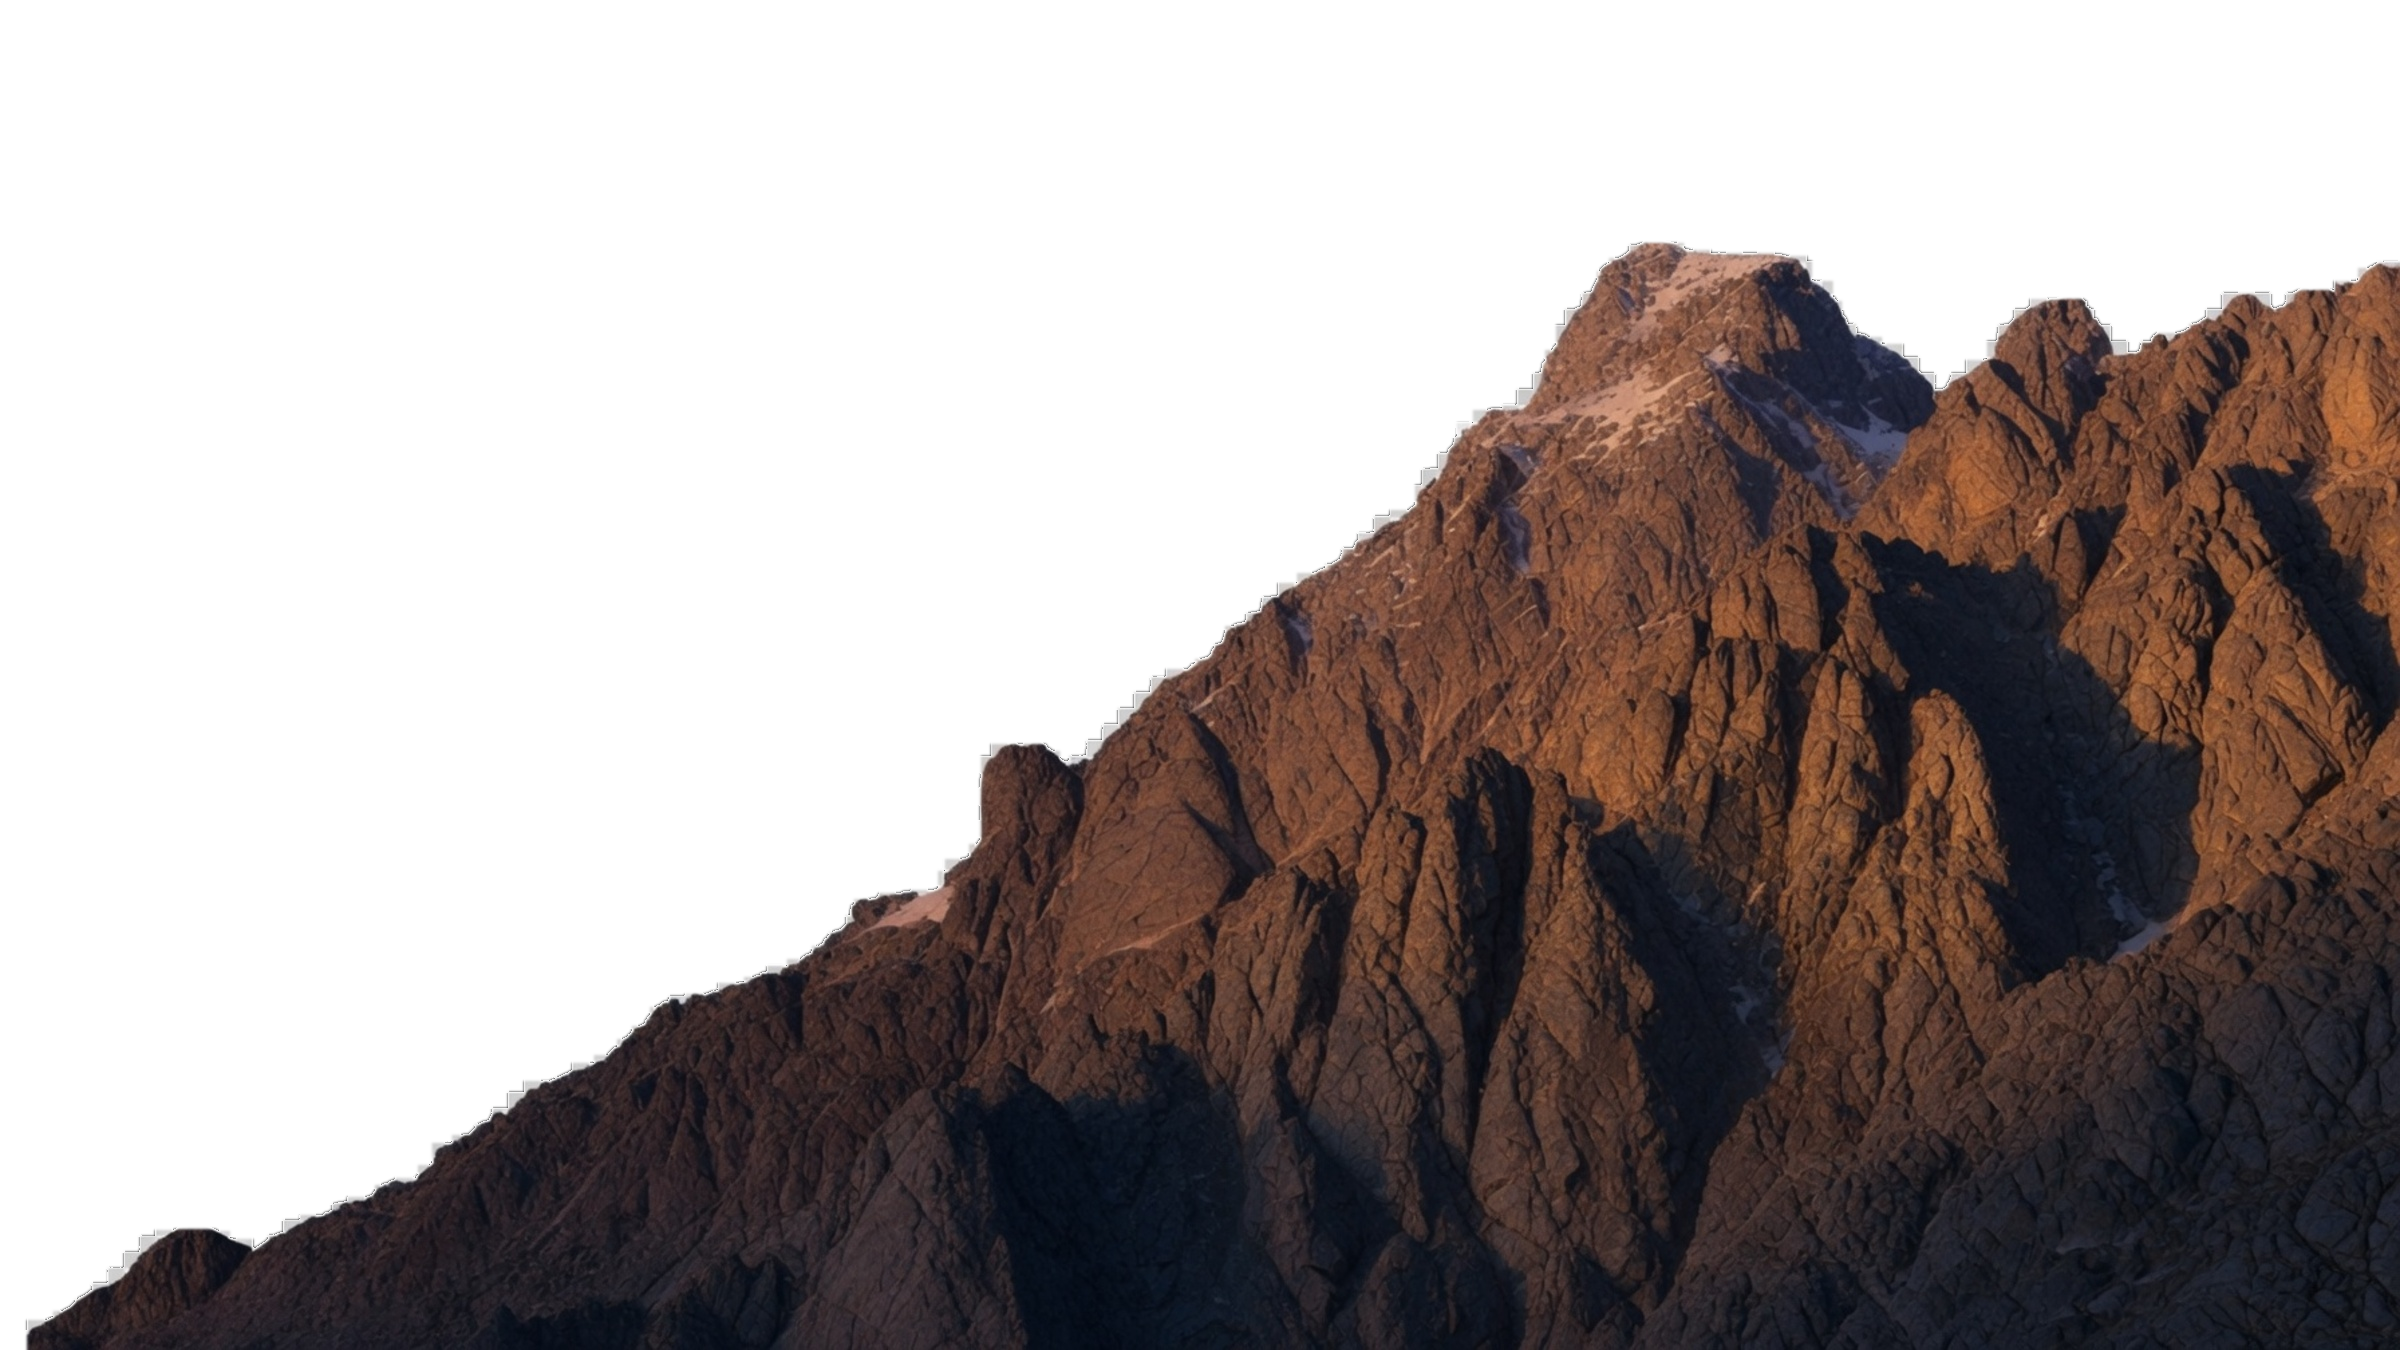
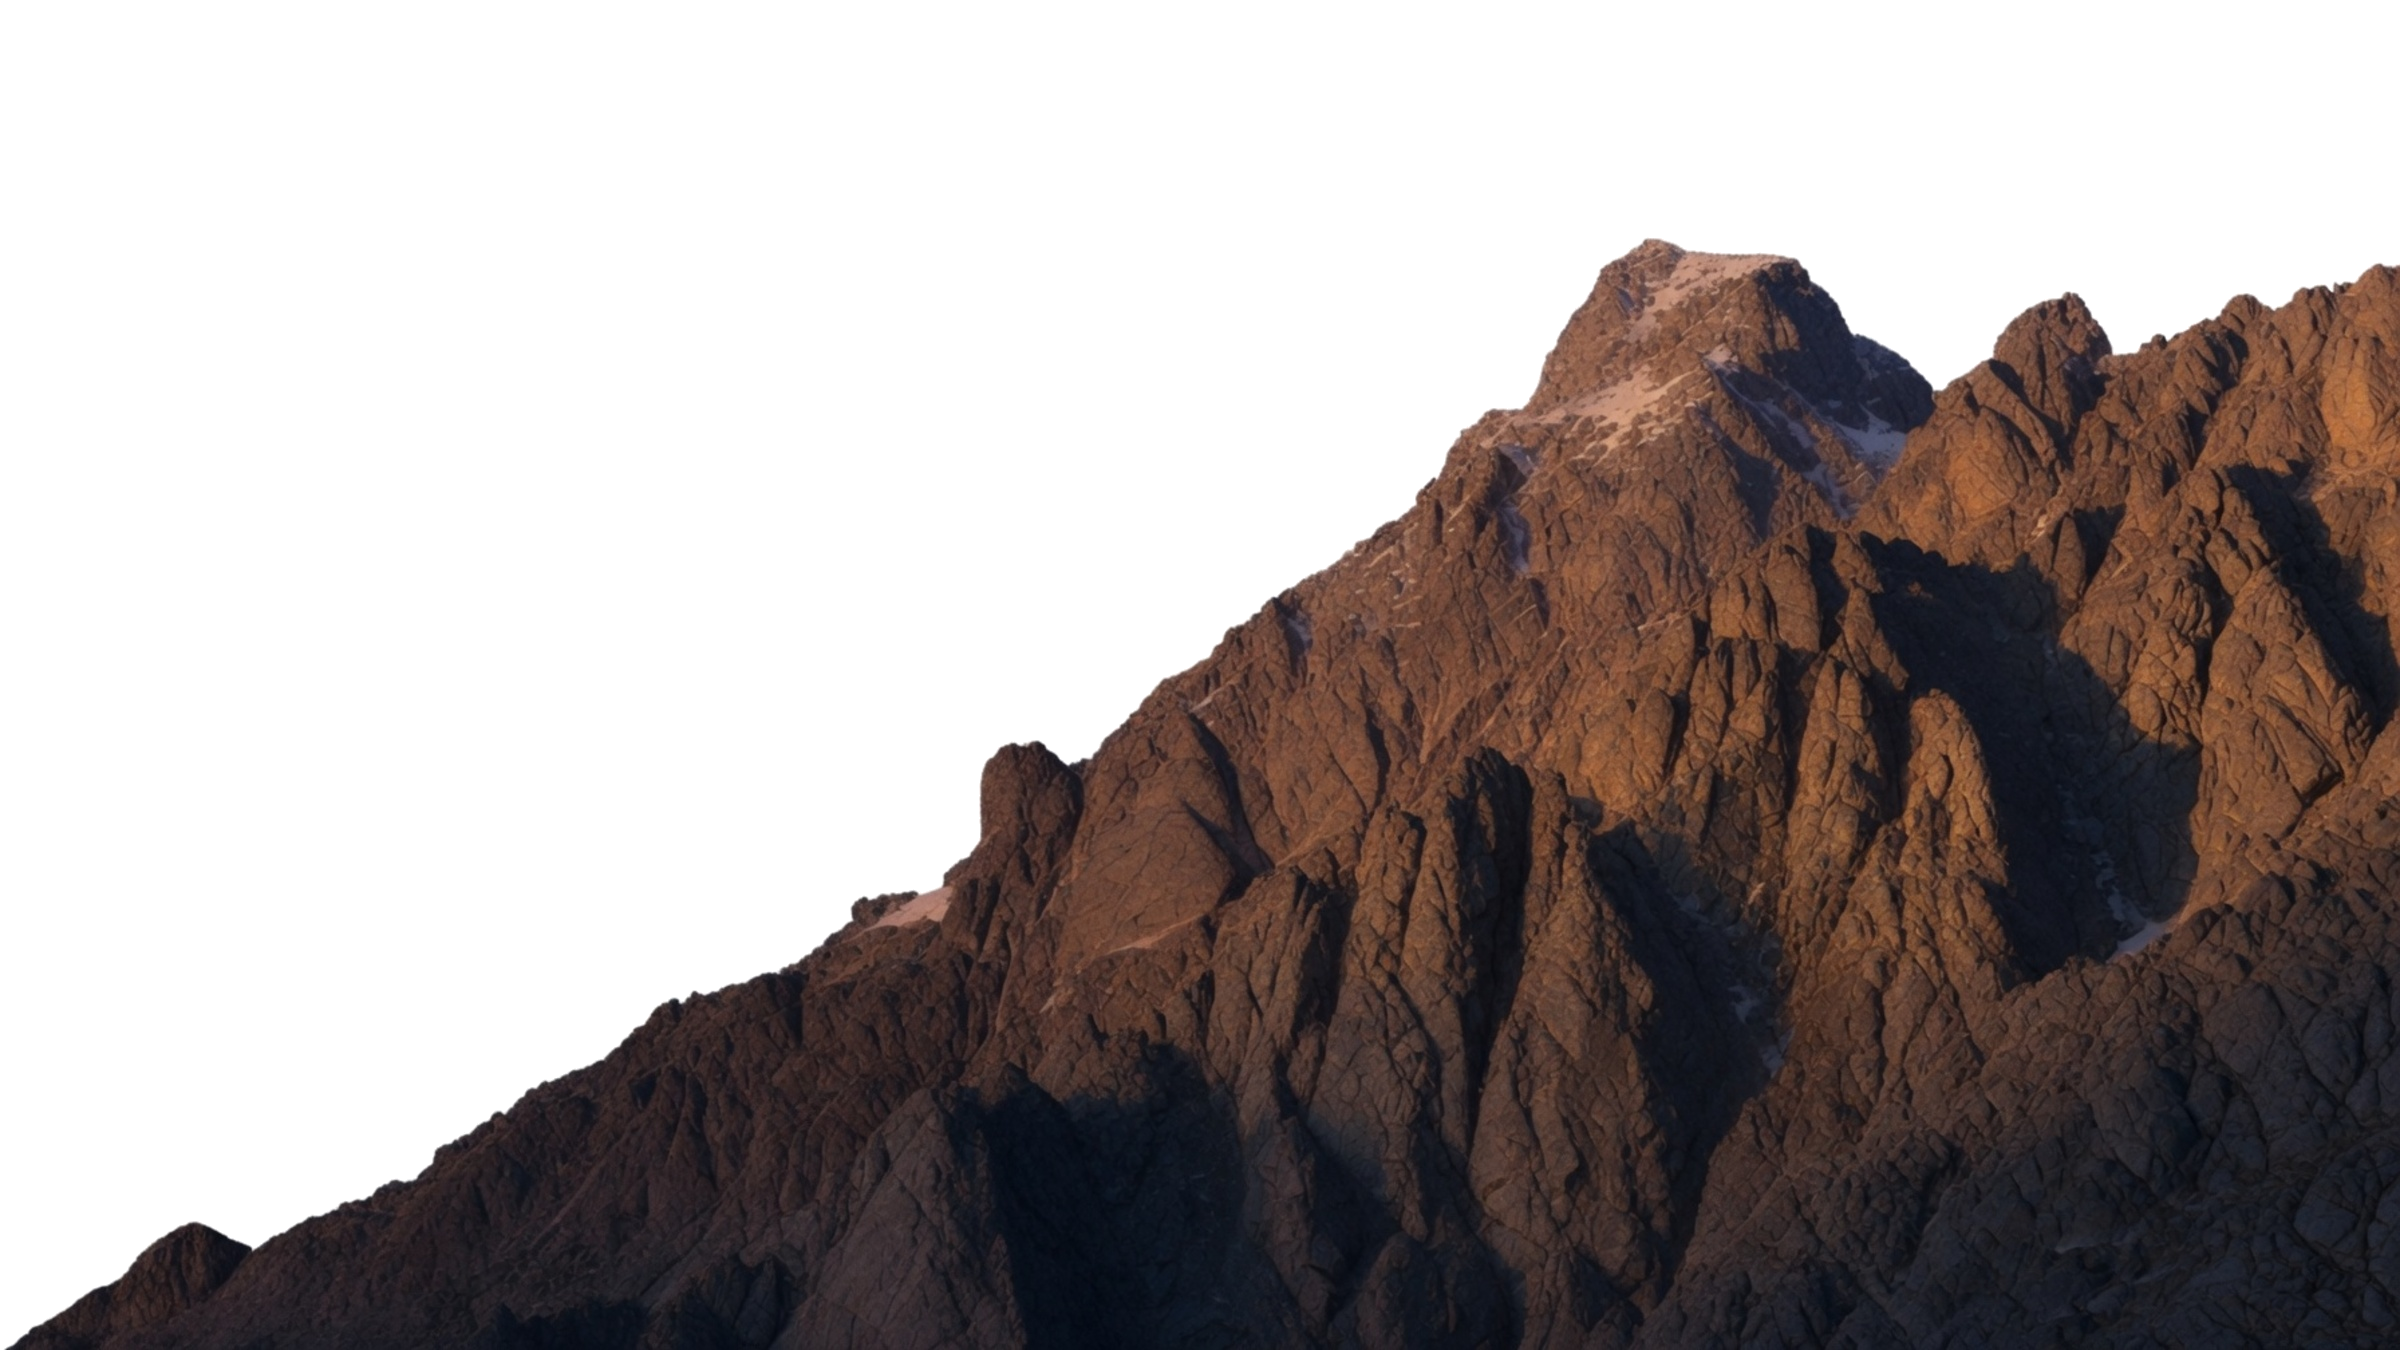
Add files via upload

diff --git a/about.html b/about.html
@@ -26,9 +26,11 @@
   .l-mtn-bg{bottom:0;}
   .l-mtn-fg{bottom:0;}
   .l-ground{bottom:0;}
-  img.l-fog{position:absolute;display:block;width:130%;height:auto;left:-15%;bottom:-4%;}
-  .l-fog-far{opacity:0.85;animation:fog-drift-far 80s ease-in-out infinite alternate, fog-pulse-far 44s ease-in-out infinite;}
-  .l-fog-near{opacity:0.92;animation:fog-drift-near 52s ease-in-out infinite alternate, fog-pulse-near 33s ease-in-out infinite;animation-delay:0s,7s;}
+  /* Fog: an inner element runs drift+pulse; the outer wrapper is moved by scroll parallax. */
+  .fog-wrap{position:absolute;left:0;width:100%;bottom:0;will-change:transform;}
+  .fog-wrap img{display:block;width:130%;height:auto;margin-left:-15%;}
+  .l-fog-far img{opacity:0.85;animation:fog-drift-far 80s ease-in-out infinite alternate, fog-pulse-far 44s ease-in-out infinite;}
+  .l-fog-near img{opacity:0.92;animation:fog-drift-near 52s ease-in-out infinite alternate, fog-pulse-near 33s ease-in-out infinite;animation-delay:0s,7s;}
   @keyframes fog-drift-far{from{transform:translateX(-4%);}to{transform:translateX(4%);}}
   @keyframes fog-drift-near{from{transform:translateX(5%);}to{transform:translateX(-5%);}}
   @keyframes fog-pulse-far{0%,55%{opacity:0.85;}68%{opacity:0.3;}80%,100%{opacity:0.85;}}
@@ -154,18 +156,18 @@
     .navlinks{gap:18px;font-size:11px;}
   }
   @media (prefers-reduced-motion: reduce){
-    .ticker-track,.l-fog-far,.l-fog-near{animation:none;}
+    .ticker-track,.l-fog-far img,.l-fog-near img{animation:none;}
     .reveal{opacity:1;transform:none;transition:none;}
-    img.layer{transform:none !important;}
+    img.layer,.fog-wrap{transform:none !important;}
   }
 </style>
 </head>
 <body>
   <div class="stage" aria-hidden="true">
     <img class="layer l-mtn-bg" data-from="10" data-to="-14" src="assets/mountains-bg.png" alt="">
-    <img class="layer l-fog l-fog-far" src="assets/fog-far.png" alt="">
-    <img class="layer l-mtn-fg" data-from="30" data-to="-6" src="assets/mountains-fg.png" alt="">
-    <img class="layer l-fog l-fog-near" src="assets/fog-near.png" alt="">
+    <div class="fog-wrap l-fog-far" data-from="115" data-to="-20" data-delay="0.5"><img src="assets/fog-far.png" alt=""></div>
+    <img class="layer l-mtn-fg" data-from="60" data-to="15" src="assets/mountains-fg.png" alt="">
+    <div class="fog-wrap l-fog-near" data-from="130" data-to="-40" data-delay="0.55"><img src="assets/fog-near.png" alt=""></div>
     <img class="layer l-ground" data-from="108" data-to="0" src="assets/ground-rock.png" alt="">
   </div>
   <div class="content">
@@ -274,8 +276,13 @@
   // across the full page scroll. Nearest layers travel furthest; ground docks at page end.
   (function(){
     if (window.matchMedia('(prefers-reduced-motion: reduce)').matches) return;
-    var layers = Array.prototype.slice.call(document.querySelectorAll('.stage img.layer[data-from]')).map(function(el){
-      return { el: el, from: parseFloat(el.getAttribute('data-from')), to: parseFloat(el.getAttribute('data-to')) };
+    var layers = Array.prototype.slice.call(document.querySelectorAll('.stage [data-from]')).map(function(el){
+      return {
+        el: el,
+        from: parseFloat(el.getAttribute('data-from')),
+        to: parseFloat(el.getAttribute('data-to')),
+        delay: parseFloat(el.getAttribute('data-delay') || '0')  // 0..1: hold until this scroll fraction
+      };
     });
     var ticking = false;
     function update(){
@@ -284,7 +291,12 @@
       var max = Math.max(1, doc.scrollHeight - window.innerHeight);
       var p = Math.min(1, Math.max(0, window.scrollY / max));
       layers.forEach(function(l){
-        var y = l.from + (l.to - l.from) * p;
+        var lp = p;
+        if (l.delay > 0) {
+          // hold at `from` until scroll passes `delay`, then remap remaining range to 0..1
+          lp = p <= l.delay ? 0 : (p - l.delay) / (1 - l.delay);
+        }
+        var y = l.from + (l.to - l.from) * lp;
         l.el.style.transform = 'translate3d(0,' + y.toFixed(2) + '%,0)';
       });
     }

diff --git a/index.html b/index.html
@@ -26,9 +26,11 @@
   .l-mtn-bg{bottom:0;}
   .l-mtn-fg{bottom:0;}
   .l-ground{bottom:0;}
-  img.l-fog{position:absolute;display:block;width:130%;height:auto;left:-15%;bottom:-4%;}
-  .l-fog-far{opacity:0.85;animation:fog-drift-far 80s ease-in-out infinite alternate, fog-pulse-far 44s ease-in-out infinite;}
-  .l-fog-near{opacity:0.92;animation:fog-drift-near 52s ease-in-out infinite alternate, fog-pulse-near 33s ease-in-out infinite;animation-delay:0s,7s;}
+  /* Fog: an inner element runs drift+pulse; the outer wrapper is moved by scroll parallax. */
+  .fog-wrap{position:absolute;left:0;width:100%;bottom:0;will-change:transform;}
+  .fog-wrap img{display:block;width:130%;height:auto;margin-left:-15%;}
+  .l-fog-far img{opacity:0.85;animation:fog-drift-far 80s ease-in-out infinite alternate, fog-pulse-far 44s ease-in-out infinite;}
+  .l-fog-near img{opacity:0.92;animation:fog-drift-near 52s ease-in-out infinite alternate, fog-pulse-near 33s ease-in-out infinite;animation-delay:0s,7s;}
   @keyframes fog-drift-far{from{transform:translateX(-4%);}to{transform:translateX(4%);}}
   @keyframes fog-drift-near{from{transform:translateX(5%);}to{transform:translateX(-5%);}}
   @keyframes fog-pulse-far{0%,55%{opacity:0.85;}68%{opacity:0.3;}80%,100%{opacity:0.85;}}
@@ -154,18 +156,18 @@
     .navlinks{gap:18px;font-size:11px;}
   }
   @media (prefers-reduced-motion: reduce){
-    .ticker-track,.l-fog-far,.l-fog-near{animation:none;}
+    .ticker-track,.l-fog-far img,.l-fog-near img{animation:none;}
     .reveal{opacity:1;transform:none;transition:none;}
-    img.layer{transform:none !important;}
+    img.layer,.fog-wrap{transform:none !important;}
   }
 </style>
 </head>
 <body>
   <div class="stage" aria-hidden="true">
     <img class="layer l-mtn-bg" data-from="10" data-to="-14" src="assets/mountains-bg.png" alt="">
-    <img class="layer l-fog l-fog-far" src="assets/fog-far.png" alt="">
-    <img class="layer l-mtn-fg" data-from="30" data-to="-6" src="assets/mountains-fg.png" alt="">
-    <img class="layer l-fog l-fog-near" src="assets/fog-near.png" alt="">
+    <div class="fog-wrap l-fog-far" data-from="115" data-to="-20" data-delay="0.5"><img src="assets/fog-far.png" alt=""></div>
+    <img class="layer l-mtn-fg" data-from="60" data-to="15" src="assets/mountains-fg.png" alt="">
+    <div class="fog-wrap l-fog-near" data-from="130" data-to="-40" data-delay="0.55"><img src="assets/fog-near.png" alt=""></div>
     <img class="layer l-ground" data-from="108" data-to="0" src="assets/ground-rock.png" alt="">
   </div>
   <div class="content">
@@ -311,8 +313,13 @@
   // across the full page scroll. Nearest layers travel furthest; ground docks at page end.
   (function(){
     if (window.matchMedia('(prefers-reduced-motion: reduce)').matches) return;
-    var layers = Array.prototype.slice.call(document.querySelectorAll('.stage img.layer[data-from]')).map(function(el){
-      return { el: el, from: parseFloat(el.getAttribute('data-from')), to: parseFloat(el.getAttribute('data-to')) };
+    var layers = Array.prototype.slice.call(document.querySelectorAll('.stage [data-from]')).map(function(el){
+      return {
+        el: el,
+        from: parseFloat(el.getAttribute('data-from')),
+        to: parseFloat(el.getAttribute('data-to')),
+        delay: parseFloat(el.getAttribute('data-delay') || '0')  // 0..1: hold until this scroll fraction
+      };
     });
     var ticking = false;
     function update(){
@@ -321,7 +328,12 @@
       var max = Math.max(1, doc.scrollHeight - window.innerHeight);
       var p = Math.min(1, Math.max(0, window.scrollY / max));
       layers.forEach(function(l){
-        var y = l.from + (l.to - l.from) * p;
+        var lp = p;
+        if (l.delay > 0) {
+          // hold at `from` until scroll passes `delay`, then remap remaining range to 0..1
+          lp = p <= l.delay ? 0 : (p - l.delay) / (1 - l.delay);
+        }
+        var y = l.from + (l.to - l.from) * lp;
         l.el.style.transform = 'translate3d(0,' + y.toFixed(2) + '%,0)';
       });
     }

diff --git a/mind-forward.html b/mind-forward.html
@@ -26,9 +26,11 @@
   .l-mtn-bg{bottom:0;}
   .l-mtn-fg{bottom:0;}
   .l-ground{bottom:0;}
-  img.l-fog{position:absolute;display:block;width:130%;height:auto;left:-15%;bottom:-4%;}
-  .l-fog-far{opacity:0.85;animation:fog-drift-far 80s ease-in-out infinite alternate, fog-pulse-far 44s ease-in-out infinite;}
-  .l-fog-near{opacity:0.92;animation:fog-drift-near 52s ease-in-out infinite alternate, fog-pulse-near 33s ease-in-out infinite;animation-delay:0s,7s;}
+  /* Fog: an inner element runs drift+pulse; the outer wrapper is moved by scroll parallax. */
+  .fog-wrap{position:absolute;left:0;width:100%;bottom:0;will-change:transform;}
+  .fog-wrap img{display:block;width:130%;height:auto;margin-left:-15%;}
+  .l-fog-far img{opacity:0.85;animation:fog-drift-far 80s ease-in-out infinite alternate, fog-pulse-far 44s ease-in-out infinite;}
+  .l-fog-near img{opacity:0.92;animation:fog-drift-near 52s ease-in-out infinite alternate, fog-pulse-near 33s ease-in-out infinite;animation-delay:0s,7s;}
   @keyframes fog-drift-far{from{transform:translateX(-4%);}to{transform:translateX(4%);}}
   @keyframes fog-drift-near{from{transform:translateX(5%);}to{transform:translateX(-5%);}}
   @keyframes fog-pulse-far{0%,55%{opacity:0.85;}68%{opacity:0.3;}80%,100%{opacity:0.85;}}
@@ -154,18 +156,18 @@
     .navlinks{gap:18px;font-size:11px;}
   }
   @media (prefers-reduced-motion: reduce){
-    .ticker-track,.l-fog-far,.l-fog-near{animation:none;}
+    .ticker-track,.l-fog-far img,.l-fog-near img{animation:none;}
     .reveal{opacity:1;transform:none;transition:none;}
-    img.layer{transform:none !important;}
+    img.layer,.fog-wrap{transform:none !important;}
   }
 </style>
 </head>
 <body>
   <div class="stage" aria-hidden="true">
     <img class="layer l-mtn-bg" data-from="10" data-to="-14" src="assets/mountains-bg.png" alt="">
-    <img class="layer l-fog l-fog-far" src="assets/fog-far.png" alt="">
-    <img class="layer l-mtn-fg" data-from="30" data-to="-6" src="assets/mountains-spare.png" alt="">
-    <img class="layer l-fog l-fog-near" src="assets/fog-near.png" alt="">
+    <div class="fog-wrap l-fog-far" data-from="115" data-to="-20" data-delay="0.5"><img src="assets/fog-far.png" alt=""></div>
+    <img class="layer l-mtn-fg" data-from="60" data-to="15" src="assets/mountains-spare.png" alt="">
+    <div class="fog-wrap l-fog-near" data-from="130" data-to="-40" data-delay="0.55"><img src="assets/fog-near.png" alt=""></div>
     <img class="layer l-ground" data-from="108" data-to="0" src="assets/ground-rock.png" alt="">
   </div>
   <div class="content">
@@ -292,8 +294,13 @@
   // across the full page scroll. Nearest layers travel furthest; ground docks at page end.
   (function(){
     if (window.matchMedia('(prefers-reduced-motion: reduce)').matches) return;
-    var layers = Array.prototype.slice.call(document.querySelectorAll('.stage img.layer[data-from]')).map(function(el){
-      return { el: el, from: parseFloat(el.getAttribute('data-from')), to: parseFloat(el.getAttribute('data-to')) };
+    var layers = Array.prototype.slice.call(document.querySelectorAll('.stage [data-from]')).map(function(el){
+      return {
+        el: el,
+        from: parseFloat(el.getAttribute('data-from')),
+        to: parseFloat(el.getAttribute('data-to')),
+        delay: parseFloat(el.getAttribute('data-delay') || '0')  // 0..1: hold until this scroll fraction
+      };
     });
     var ticking = false;
     function update(){
@@ -302,7 +309,12 @@
       var max = Math.max(1, doc.scrollHeight - window.innerHeight);
       var p = Math.min(1, Math.max(0, window.scrollY / max));
       layers.forEach(function(l){
-        var y = l.from + (l.to - l.from) * p;
+        var lp = p;
+        if (l.delay > 0) {
+          // hold at `from` until scroll passes `delay`, then remap remaining range to 0..1
+          lp = p <= l.delay ? 0 : (p - l.delay) / (1 - l.delay);
+        }
+        var y = l.from + (l.to - l.from) * lp;
         l.el.style.transform = 'translate3d(0,' + y.toFixed(2) + '%,0)';
       });
     }

diff --git a/training.html b/training.html
@@ -26,9 +26,11 @@
   .l-mtn-bg{bottom:0;}
   .l-mtn-fg{bottom:0;}
   .l-ground{bottom:0;}
-  img.l-fog{position:absolute;display:block;width:130%;height:auto;left:-15%;bottom:-4%;}
-  .l-fog-far{opacity:0.85;animation:fog-drift-far 80s ease-in-out infinite alternate, fog-pulse-far 44s ease-in-out infinite;}
-  .l-fog-near{opacity:0.92;animation:fog-drift-near 52s ease-in-out infinite alternate, fog-pulse-near 33s ease-in-out infinite;animation-delay:0s,7s;}
+  /* Fog: an inner element runs drift+pulse; the outer wrapper is moved by scroll parallax. */
+  .fog-wrap{position:absolute;left:0;width:100%;bottom:0;will-change:transform;}
+  .fog-wrap img{display:block;width:130%;height:auto;margin-left:-15%;}
+  .l-fog-far img{opacity:0.85;animation:fog-drift-far 80s ease-in-out infinite alternate, fog-pulse-far 44s ease-in-out infinite;}
+  .l-fog-near img{opacity:0.92;animation:fog-drift-near 52s ease-in-out infinite alternate, fog-pulse-near 33s ease-in-out infinite;animation-delay:0s,7s;}
   @keyframes fog-drift-far{from{transform:translateX(-4%);}to{transform:translateX(4%);}}
   @keyframes fog-drift-near{from{transform:translateX(5%);}to{transform:translateX(-5%);}}
   @keyframes fog-pulse-far{0%,55%{opacity:0.85;}68%{opacity:0.3;}80%,100%{opacity:0.85;}}
@@ -154,18 +156,18 @@
     .navlinks{gap:18px;font-size:11px;}
   }
   @media (prefers-reduced-motion: reduce){
-    .ticker-track,.l-fog-far,.l-fog-near{animation:none;}
+    .ticker-track,.l-fog-far img,.l-fog-near img{animation:none;}
     .reveal{opacity:1;transform:none;transition:none;}
-    img.layer{transform:none !important;}
+    img.layer,.fog-wrap{transform:none !important;}
   }
 </style>
 </head>
 <body>
   <div class="stage" aria-hidden="true">
     <img class="layer l-mtn-bg" data-from="10" data-to="-14" src="assets/mountains-bg.png" alt="">
-    <img class="layer l-fog l-fog-far" src="assets/fog-far.png" alt="">
-    <img class="layer l-mtn-fg" data-from="30" data-to="-6" src="assets/mountains-fg.png" alt="">
-    <img class="layer l-fog l-fog-near" src="assets/fog-near.png" alt="">
+    <div class="fog-wrap l-fog-far" data-from="115" data-to="-20" data-delay="0.5"><img src="assets/fog-far.png" alt=""></div>
+    <img class="layer l-mtn-fg" data-from="60" data-to="15" src="assets/mountains-fg.png" alt="">
+    <div class="fog-wrap l-fog-near" data-from="130" data-to="-40" data-delay="0.55"><img src="assets/fog-near.png" alt=""></div>
     <img class="layer l-ground" data-from="108" data-to="0" src="assets/ground-rock.png" alt="">
   </div>
   <div class="content">
@@ -294,8 +296,13 @@
   // across the full page scroll. Nearest layers travel furthest; ground docks at page end.
   (function(){
     if (window.matchMedia('(prefers-reduced-motion: reduce)').matches) return;
-    var layers = Array.prototype.slice.call(document.querySelectorAll('.stage img.layer[data-from]')).map(function(el){
-      return { el: el, from: parseFloat(el.getAttribute('data-from')), to: parseFloat(el.getAttribute('data-to')) };
+    var layers = Array.prototype.slice.call(document.querySelectorAll('.stage [data-from]')).map(function(el){
+      return {
+        el: el,
+        from: parseFloat(el.getAttribute('data-from')),
+        to: parseFloat(el.getAttribute('data-to')),
+        delay: parseFloat(el.getAttribute('data-delay') || '0')  // 0..1: hold until this scroll fraction
+      };
     });
     var ticking = false;
     function update(){
@@ -304,7 +311,12 @@
       var max = Math.max(1, doc.scrollHeight - window.innerHeight);
       var p = Math.min(1, Math.max(0, window.scrollY / max));
       layers.forEach(function(l){
-        var y = l.from + (l.to - l.from) * p;
+        var lp = p;
+        if (l.delay > 0) {
+          // hold at `from` until scroll passes `delay`, then remap remaining range to 0..1
+          lp = p <= l.delay ? 0 : (p - l.delay) / (1 - l.delay);
+        }
+        var y = l.from + (l.to - l.from) * lp;
         l.el.style.transform = 'translate3d(0,' + y.toFixed(2) + '%,0)';
       });
     }